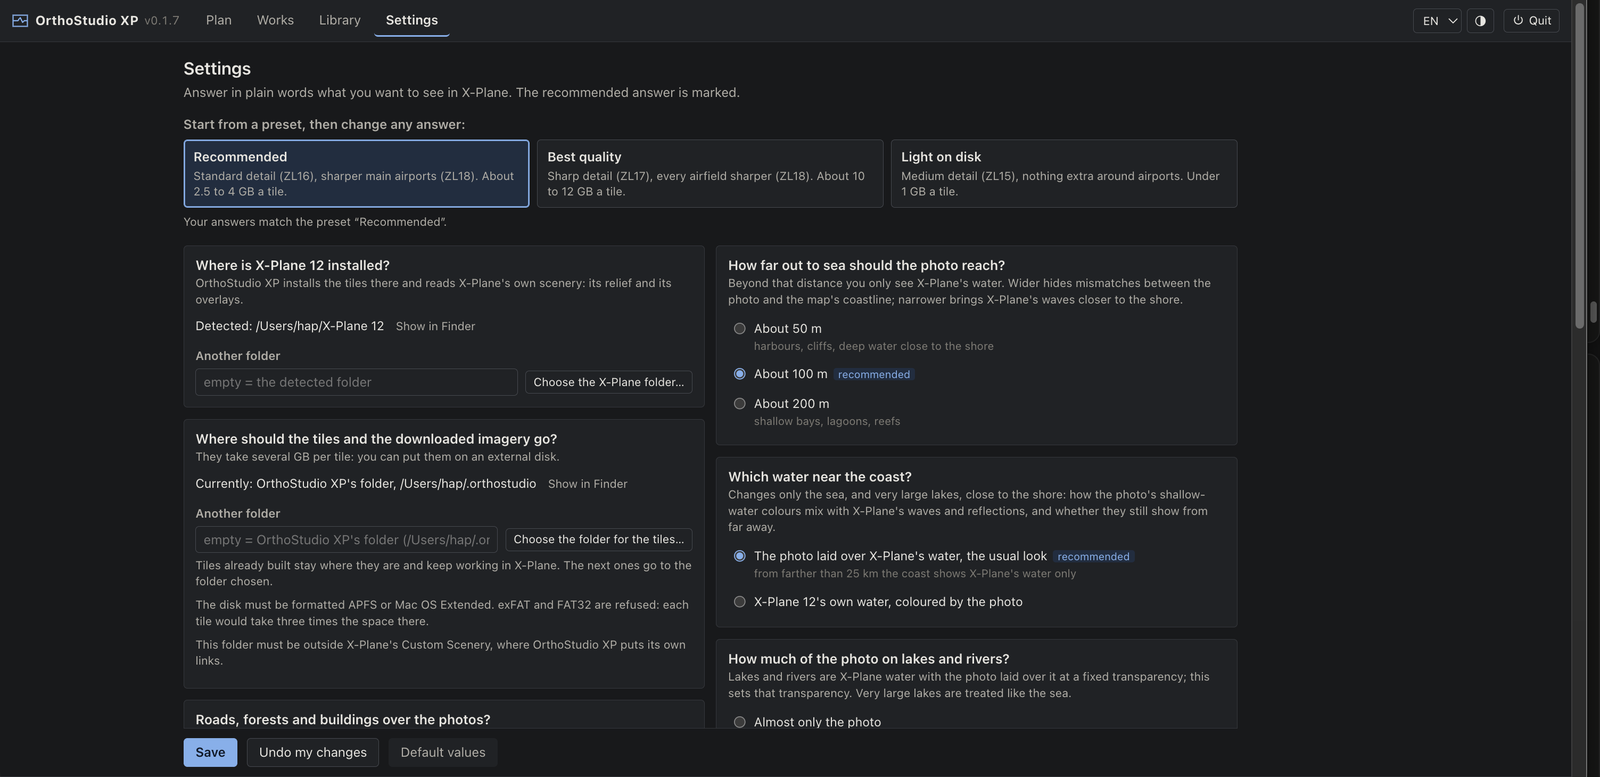
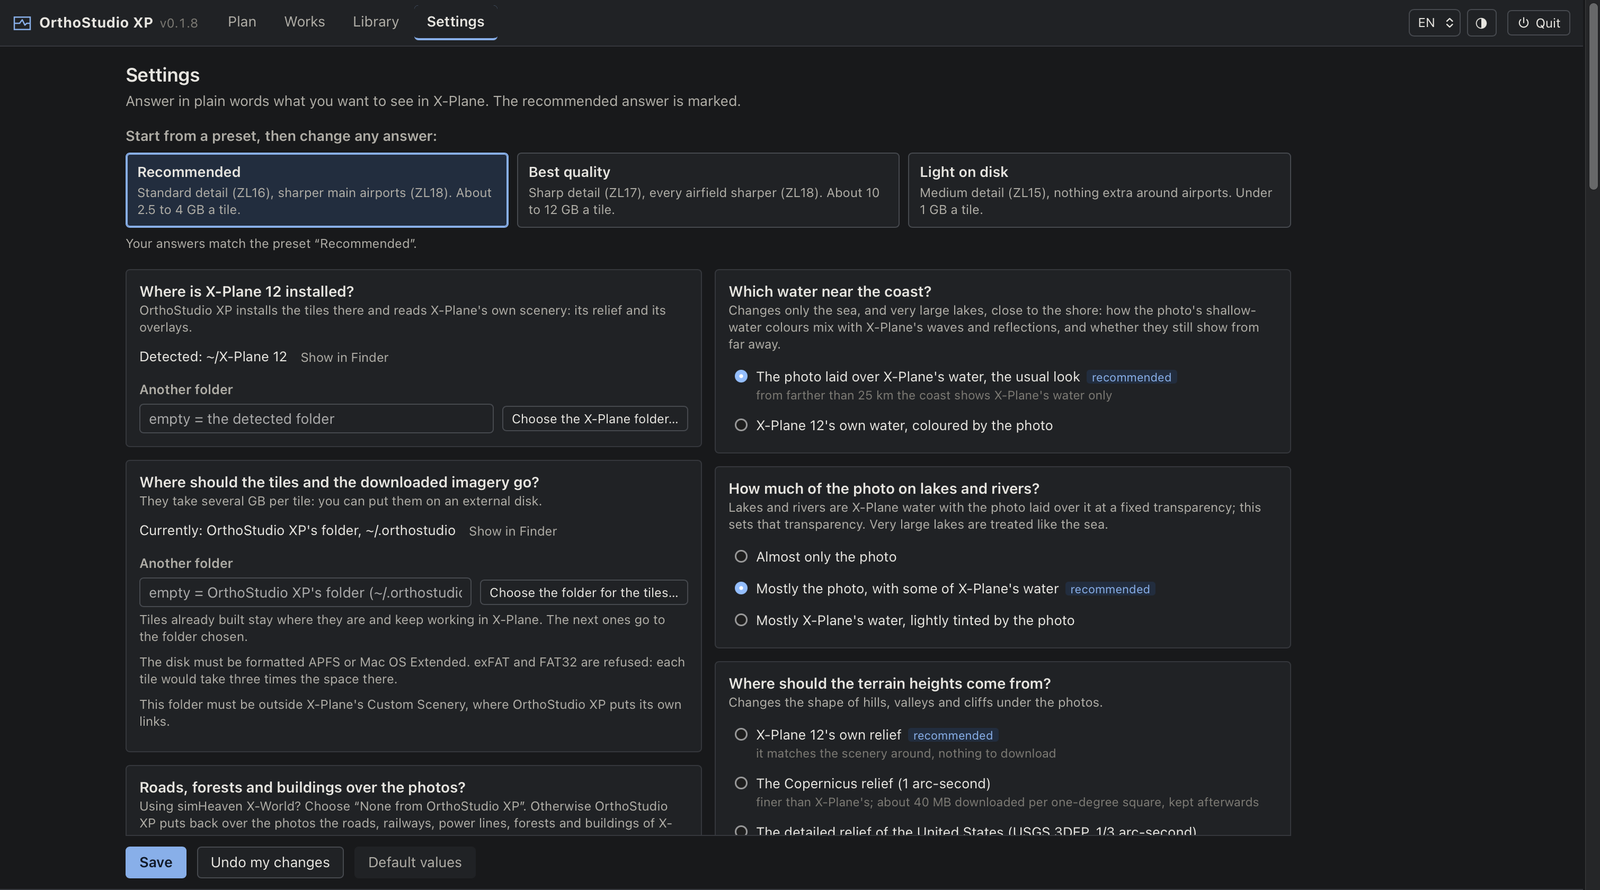
Show 0.1.8, and its own window, in the pictures of the README
The captures are of the app's window now, not of a tab in Chrome, so prepare.py refused them: it
looks for the browser's grey to know where the page begins. Without it the search starts at the
top of the capture instead, and the sides still come from the page's own bar, so a window
narrower than the screen needs nothing said about it.

The top needed more care. The grey macOS paints a title bar with comes close to the page's own:
35,34,35 against 32,34,37 on one capture, 44,43,44 on the next, measured. The tolerance that
finds a bar swallowed the first whole, and the Plan picture came out with the traffic lights in
it. The top is now taken from the exact colour, which a title bar never has and a capture keeps.

Four of the five are new; cost.png still shows 0.1.7, waiting for a capture of step 3.

diff --git a/tools/screenshots/prepare.py b/tools/screenshots/prepare.py
@@ -57,6 +57,10 @@ DIM_TEXT = 150
 """The version is written in the page's faintest ink (``--fg-3``). The brand beside it reaches 228
 and the tabs 172, so the first run of ink that never gets brighter than this is the version."""
 
+TITLE_BAR = 200
+"""How far below the first band of page colour the page's own bar may still be, in pixels: a
+window's title bar stands between them and is about 54 px tall at twice the scale."""
+
 STATUS_BAR = (30, 100)
 """How tall the status bar may be, in pixels, for the crop to trust what it found."""
 
@@ -88,29 +92,44 @@ class Found:
     colour: tuple[int, int, int]
 
 
-def _matches(pixels: np.ndarray, colour: Sequence[int]) -> np.ndarray:
-    return np.abs(pixels - np.array(colour)).max(axis=2) <= TOLERANCE
+def _matches(pixels: np.ndarray, colour: Sequence[int], tolerance: int = TOLERANCE) -> np.ndarray:
+    return np.abs(pixels - np.array(colour)).max(axis=2) <= tolerance
 
 
 def page_box(pixels: np.ndarray) -> tuple[int, int, int, int]:
-    """Where the page is in a capture of the whole screen, as ``(left, top, right, bottom)``.
+    """Where the page is in a capture, as ``(left, top, right, bottom)``.
 
-    The browser's own grey is the landmark: under its last row the page opens with its bar, which is
-    one of the page colours across the whole width. The bottom is the last such row, the status bar;
-    the sides come from the bar itself.
+    Two kinds of capture reach here. In one, the page is a tab of the whole screen: the browser's
+    own grey is the landmark, and under its last row the page opens with its bar. In the other,
+    since 0.1.8, the page is the app's own window, and there is no browser at all: the search then
+    starts at the top of the capture. The window's title bar is no obstacle, being a grey of macOS
+    and not one of the page (44,43,44 against 32,34,37, measured), so it falls outside on its own,
+    and so does the desktop around the window.
+
+    Either way the page opens with its bar, which is one of the page colours across the width. The
+    bottom is the last such row, the status bar; the sides come from the bar itself, which is why a
+    window narrower than the screen needs nothing said about it.
     """
     page = np.zeros(pixels.shape[:2], bool)
     for colour in PAGE_COLOURS:
         page |= _matches(pixels, colour)
     share = page.mean(axis=1)
     chrome = np.where(_matches(pixels, BROWSER_CHROME).mean(axis=1) >= 0.5)[0]
-    if not chrome.size:
-        raise LookupError("no browser bars: is this a capture of the whole screen, in Chrome?")
-    under = int(chrome.max()) + 1
+    under = int(chrome.max()) + 1 if chrome.size else 0
     tops = [row for row in range(under, len(share) - 12) if share[row : row + 12].min() >= 0.5]
     if not tops:
         raise LookupError("no page under the browser bars: is the page in its dark theme?")
     top = tops[0]
+    # The page draws its bars in its own colours, and a capture keeps them exactly. The grey macOS
+    # paints a window's title bar with only comes close: 35,34,35 against the page's 32,34,37 on
+    # one capture and 44,43,44 on the next, measured, the first of which the tolerance that finds
+    # a bar would swallow whole. So the top is taken from the exact colour, which the title bar
+    # never has; a capture whose colours have been through JPEG has none either, and keeps what
+    # the tolerance found.
+    exact = _matches(pixels, PAGE_COLOURS[0], tolerance=0).mean(axis=1)
+    page_bar = [row for row in range(top, min(top + TITLE_BAR, len(exact))) if exact[row] >= 0.5]
+    if page_bar:
+        top = page_bar[0]
     bottom = max(row for row in np.where(share >= 0.5)[0] if share[row - 12 : row + 1].min() >= 0.5)
     columns = np.where(page[top : top + 40].mean(axis=0) >= 0.95)[0]
     return int(columns.min()), top, int(columns.max()) + 1, int(bottom) + 1
